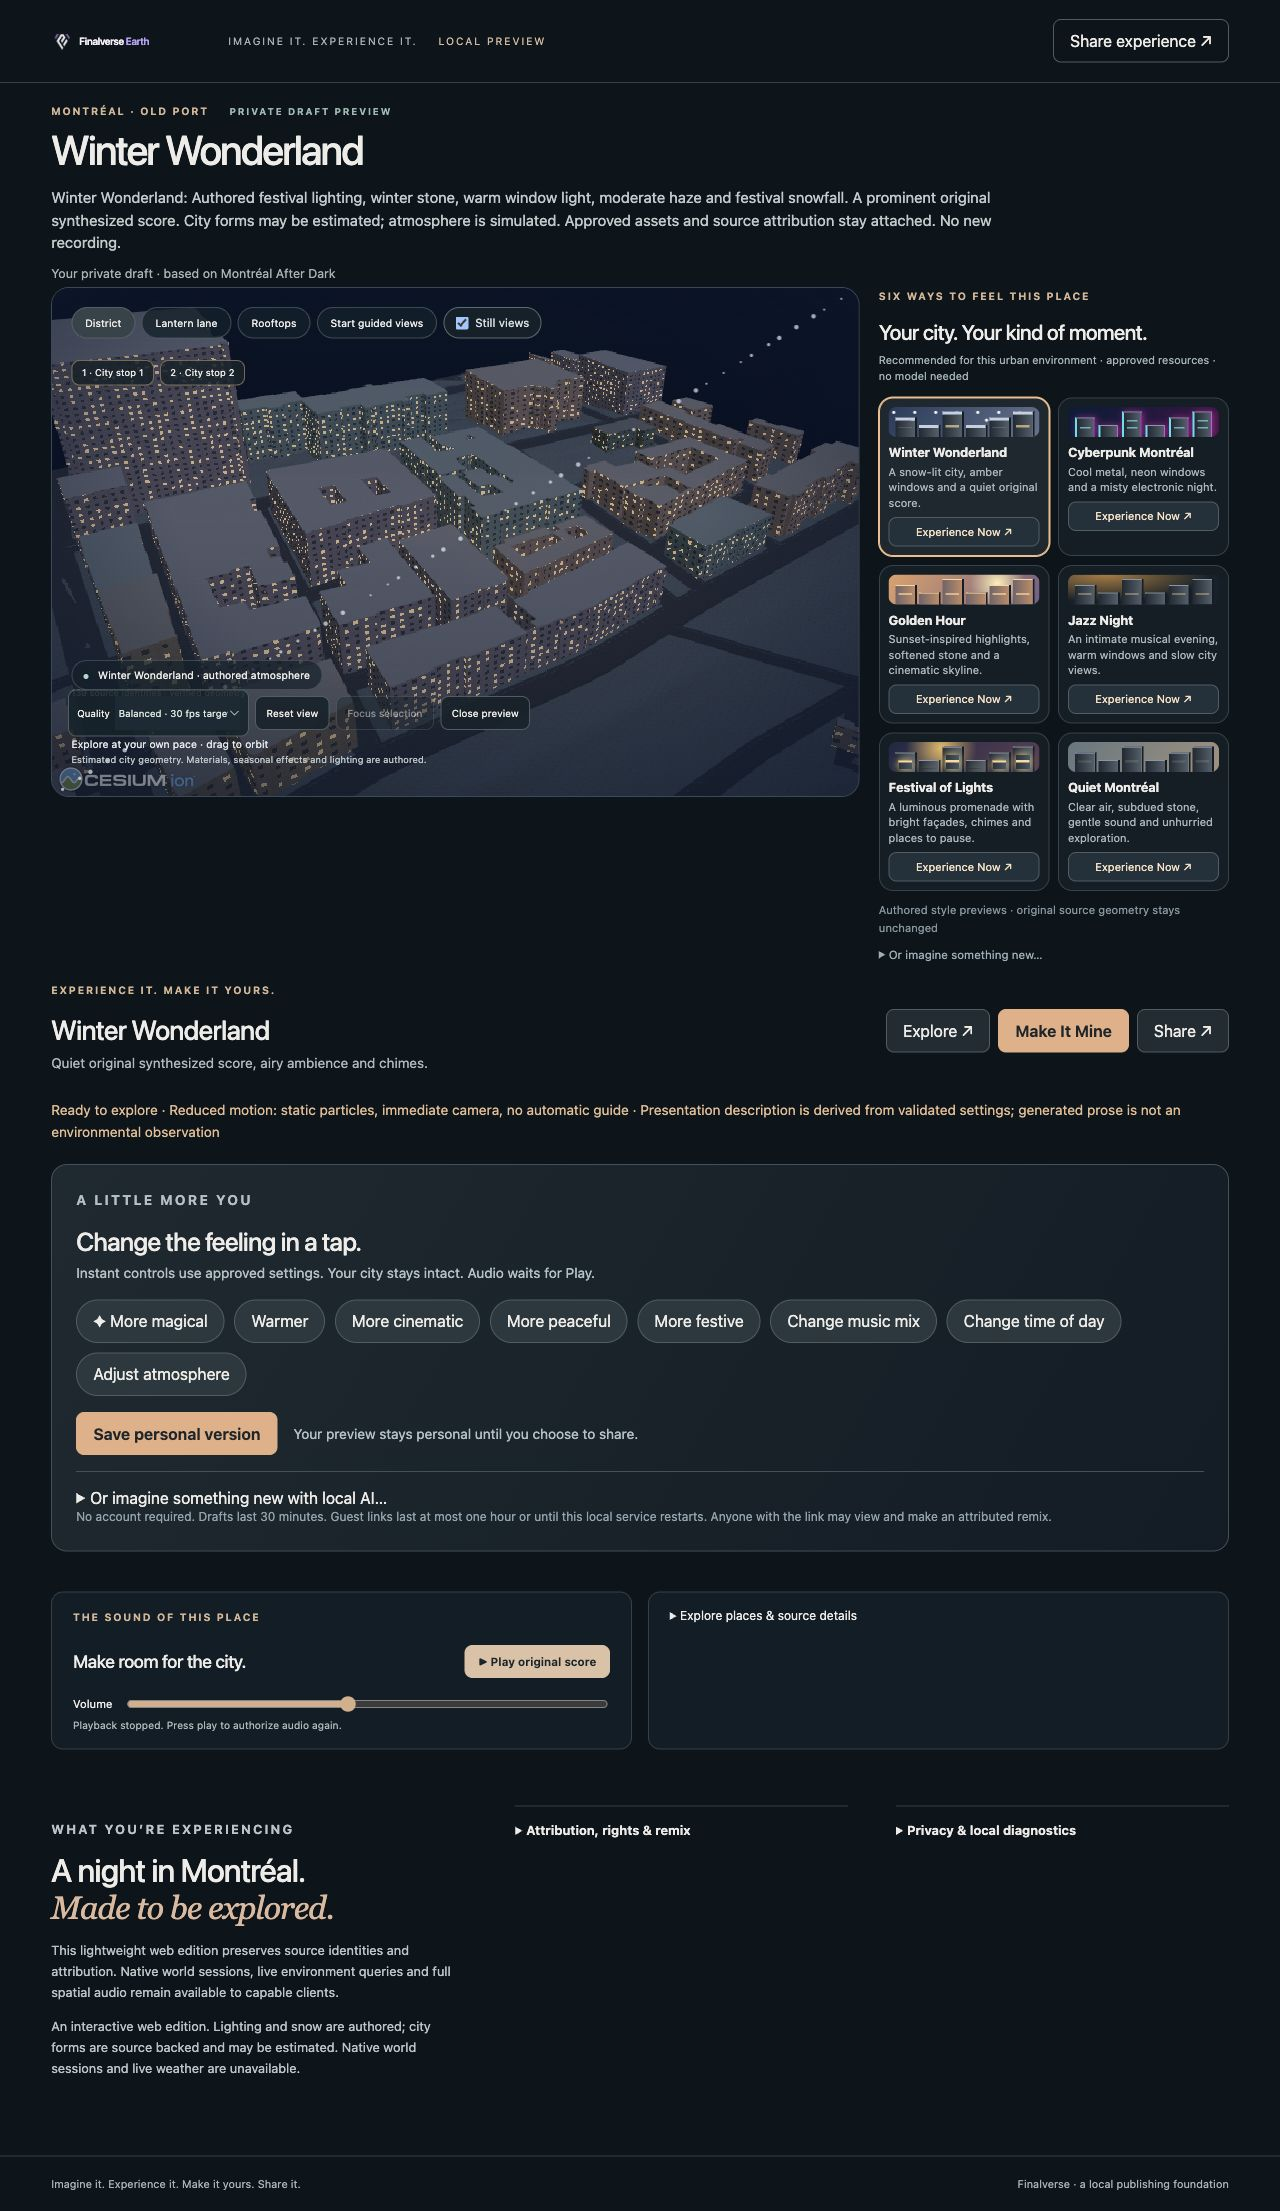
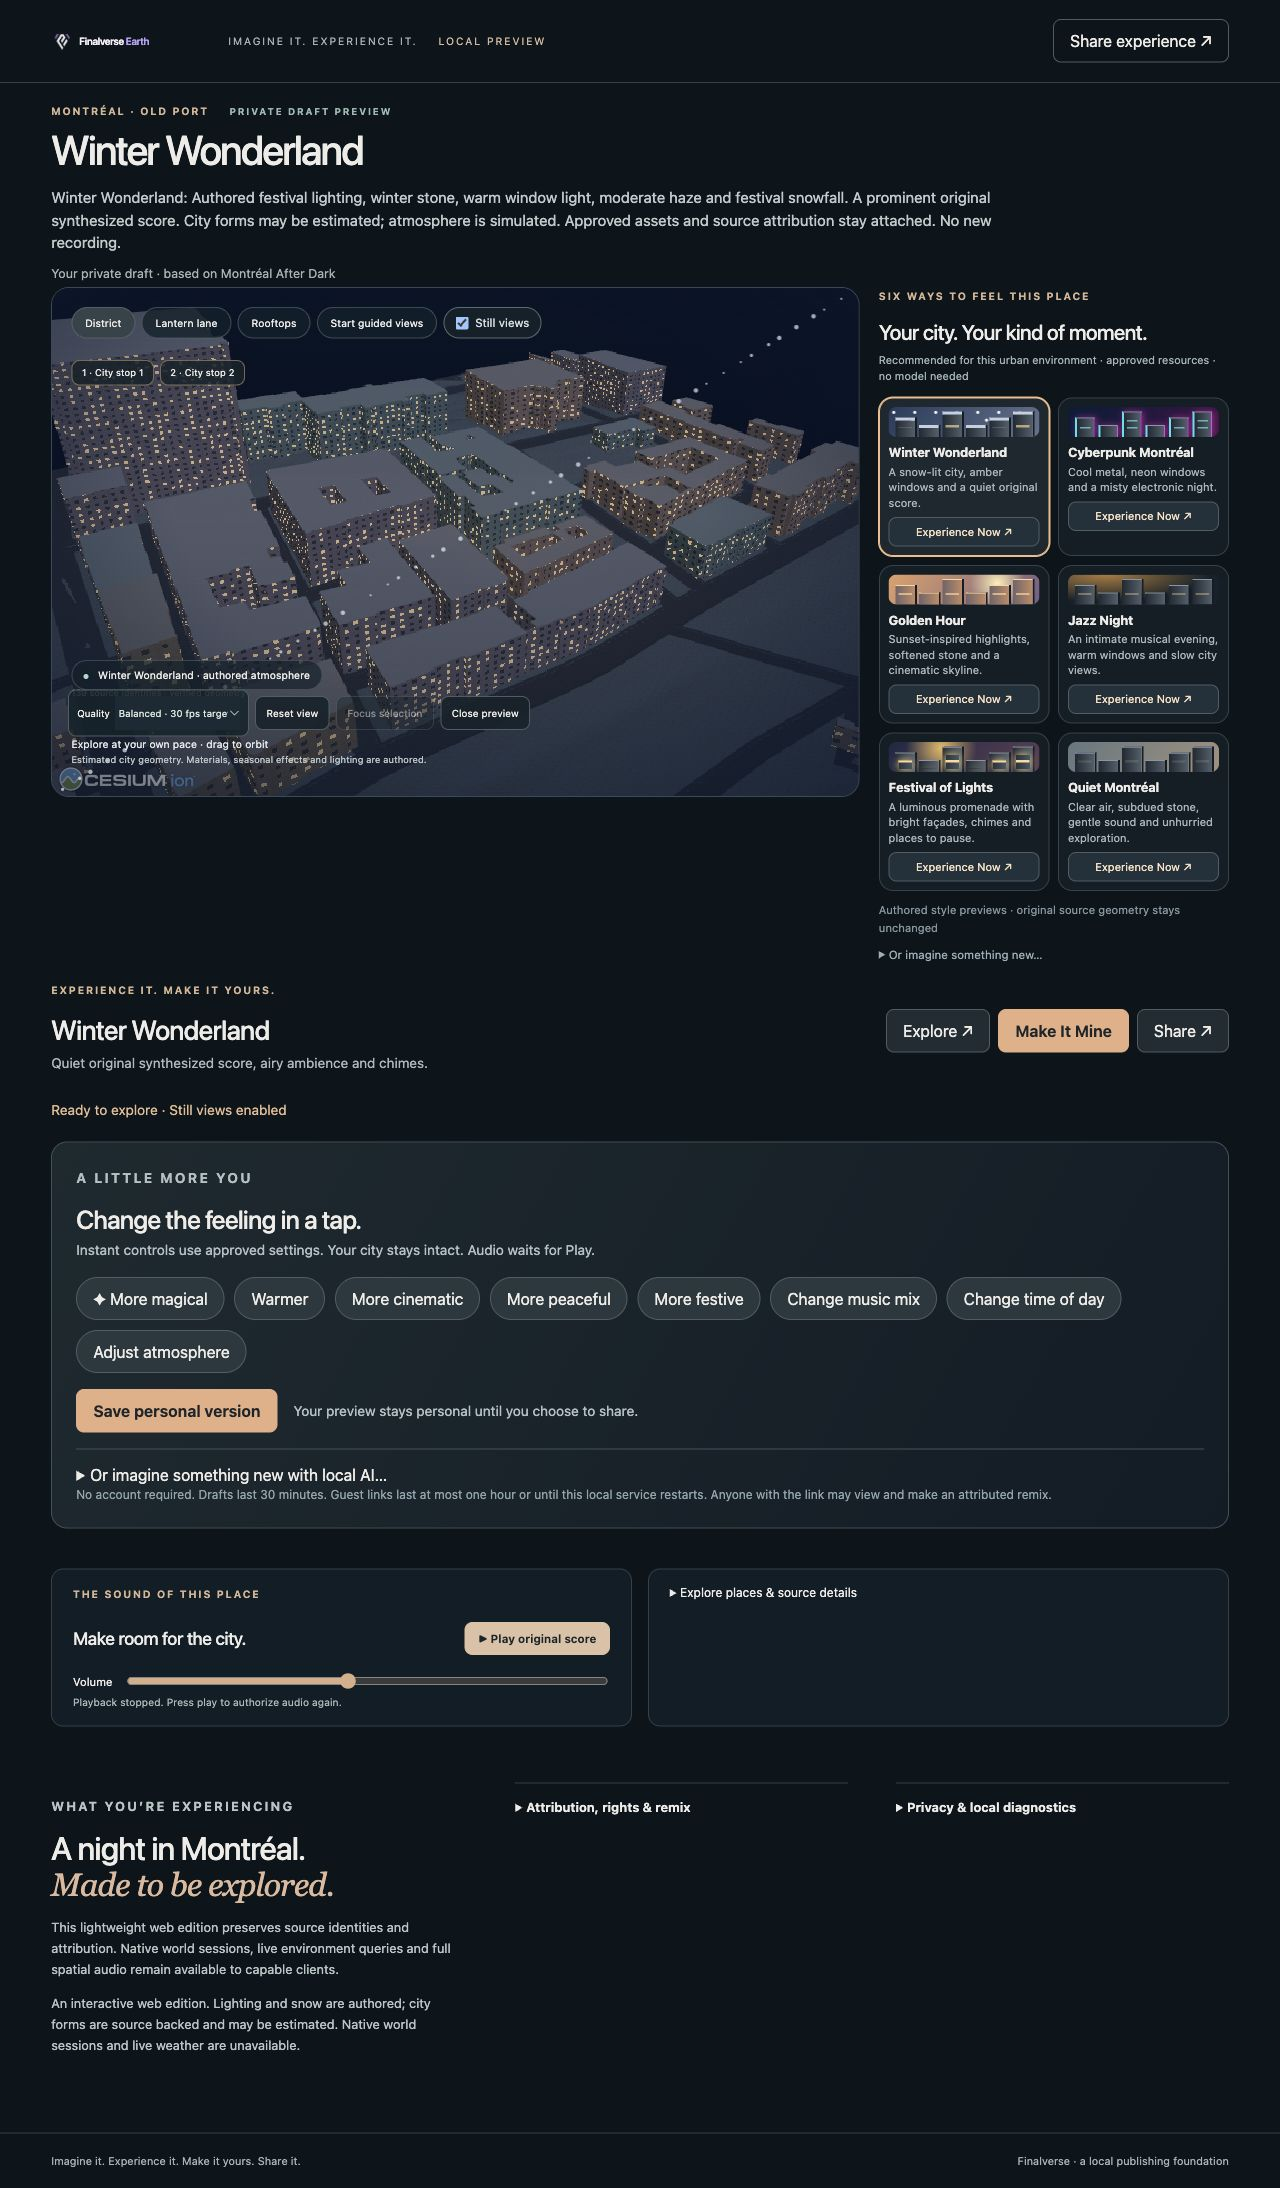
docs(m5): seal final guest feedback review

diff --git a/docs/m5/acceptance.md b/docs/m5/acceptance.md
@@ -7,7 +7,7 @@
 | Repository | Tested implementation commit | Worktree / branch |
 | --- | --- | --- |
 | finalverse/finalverse | `d56e4a01a25b7c72cb833881e0395d5547b27d54` | `/Users/wenyan/Finalverse/dev/worktrees/core-m5-20261029` · `feat/m5-smart-experiences` |
-| finalverse/earth-web | `ced4a861ddbbba17125818d523b5964603bd3ad6` | `/Users/wenyan/Finalverse/dev/worktrees/earth-web-m5-20261029` · `feat/m5-instant-creation` |
+| finalverse/earth-web | `0dda24324075715768e8ba7b303867c89cfca7f4` | `/Users/wenyan/Finalverse/dev/worktrees/earth-web-m5-20261029` · `feat/m5-instant-creation` |
 
 A subsequent local documentation/evidence commit completes each branch. The hashes above identify the tested source; `git rev-parse HEAD` identifies the full delivered branch. Accepted M4-C parents remain `b8d85af7fa72cedec823f424d60ac3a3f7247586` and `b7c1ba017722191d17b22b274f61bdd12130046a`. All eleven protected primary/accepted checkouts remain clean at their original heads; see [preservation receipt](evidence/preservation.json). No merge, push, history rewrite or public deployment was performed.
 
